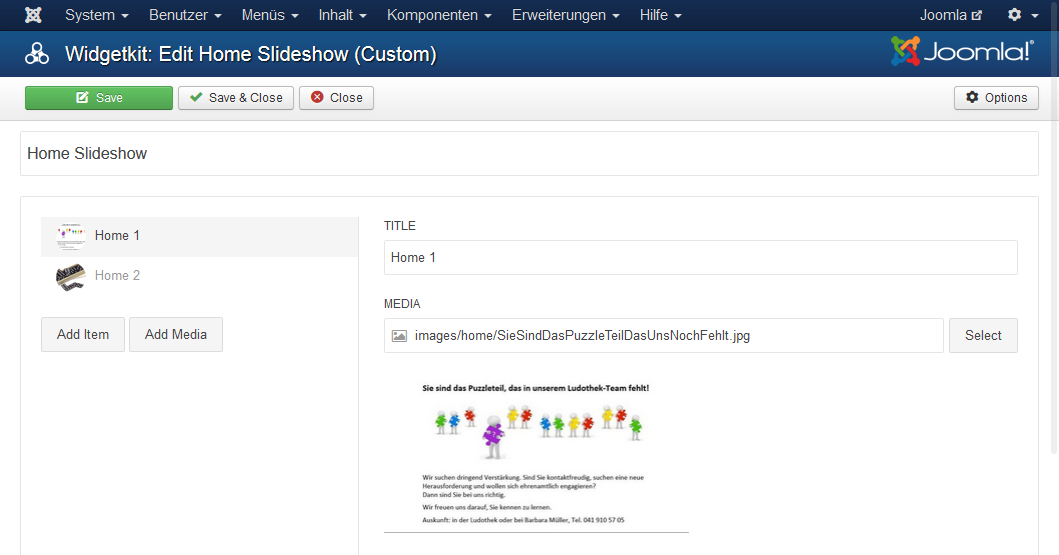
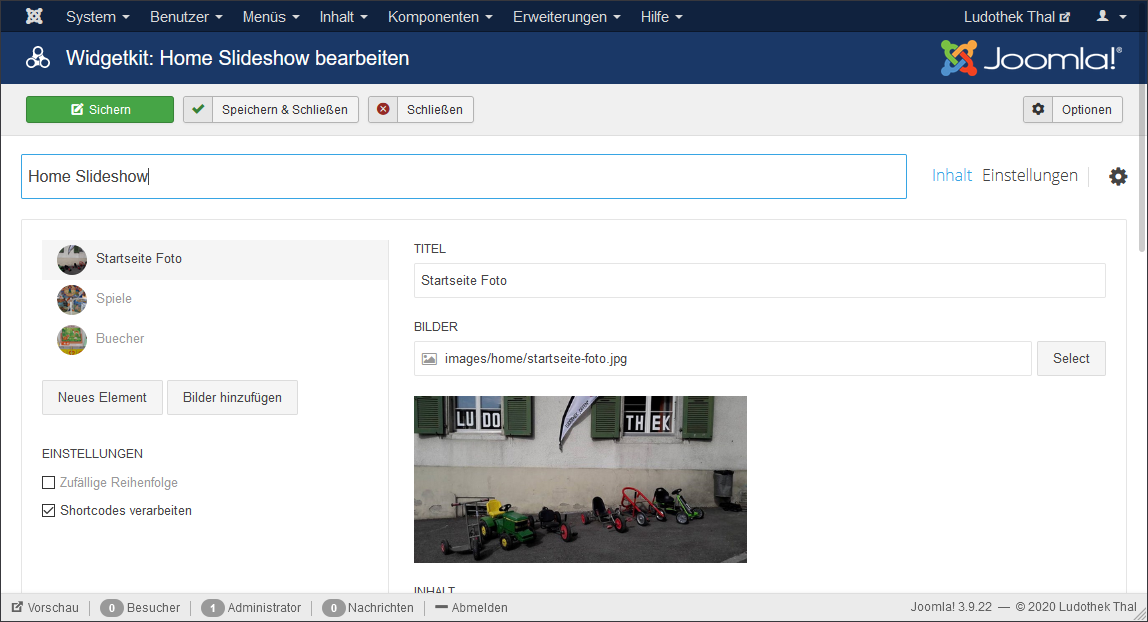
improve widgetkit docu

diff --git a/user/pages/10.ludothek-webseite/06.widgetkit/docs.de.md b/user/pages/10.ludothek-webseite/06.widgetkit/docs.de.md
@@ -12,15 +12,12 @@ Um neue Widgets zu erstellen oder bestehende zu bearbeiten ist im Administrator 
 
 ![webseite_backend_widgetkit](../../images/webseite_backend_widgetkit.png)
 
-Auf das Element (z.B. «Lageplan») klicken um die Slideshow zu bearbeiten:
+Auf das Element (z.B. «Home Slideshow») klicken um die Slideshow zu bearbeiten:
 
 ![webseite_backend_widgetkit_bearbeiten](../../images/webseite_backend_widgetkit_bearbeiten.png)
 
-Im Editier-Fenster der Slideshow können Bilder hinzugefügt, verändert neu sortiert oder gelöscht werden.
+Im Inhalts-Fenster der Slideshow können Bilder hinzugefügt, neu sortiert oder gelöscht werden.
 
-Um die Anzeigeeinstellungen des Widgets zu verändern muss das Modul geöffnet werden. Die Module sind im Administrator unter **Erweiterungen → Module** zu finden:
-
-![webseite_backend_erweiterung_module](../../images/webseite_backend_erweiterung_module.png)
-Im geöffneten Modul kann auf den Knopf Widgetkit geklickt werden um die Anzeige-Einstellungen zu öffnen:
-
+Über die Optionen im Einstellungen-Fenster wird die Darstellung des Widgets kontrolliert:
 ![webseite_backend_widgetkit_slideshow](../../images/webseite_backend_widgetkit_slideshow.png)
+
